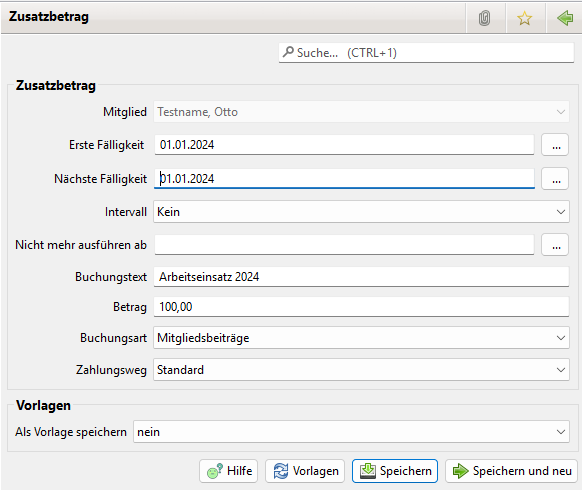
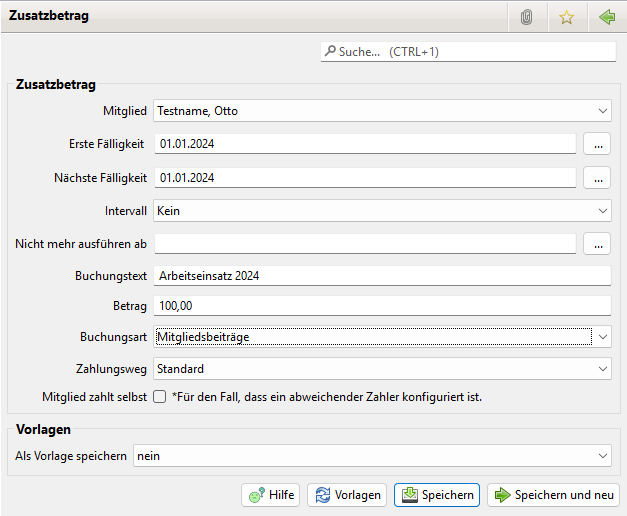
Update zusatzbetraege

diff --git a/v/4.0/mitglieder/zusatzbetrage.md b/v/4.0/mitglieder/zusatzbetrage.md
@@ -85,6 +85,8 @@ Mit einem Klick auf Neu oder Bearbeiten öffnet sich folgender Dialog:
 
 PS: Ab JVerein 3.0.0 lässt sich für den Zusatzbetrag ein von der Konfiguration beim Mitglied (Standard) abweichender Zahlungsweg konfigurieren.
 
+PS: Ab JVerein 4.0.0 lässt sich festlegen, dass das Mitglied den Zusatzbetrag selbst zahlen soll, auch wenn beim Mitglied ein abweichender zahler konfiguriert sein sollte.
+
 ## Abrechnung
 
 Bei der Abrechnung finden folgende Prüfungen statt:
